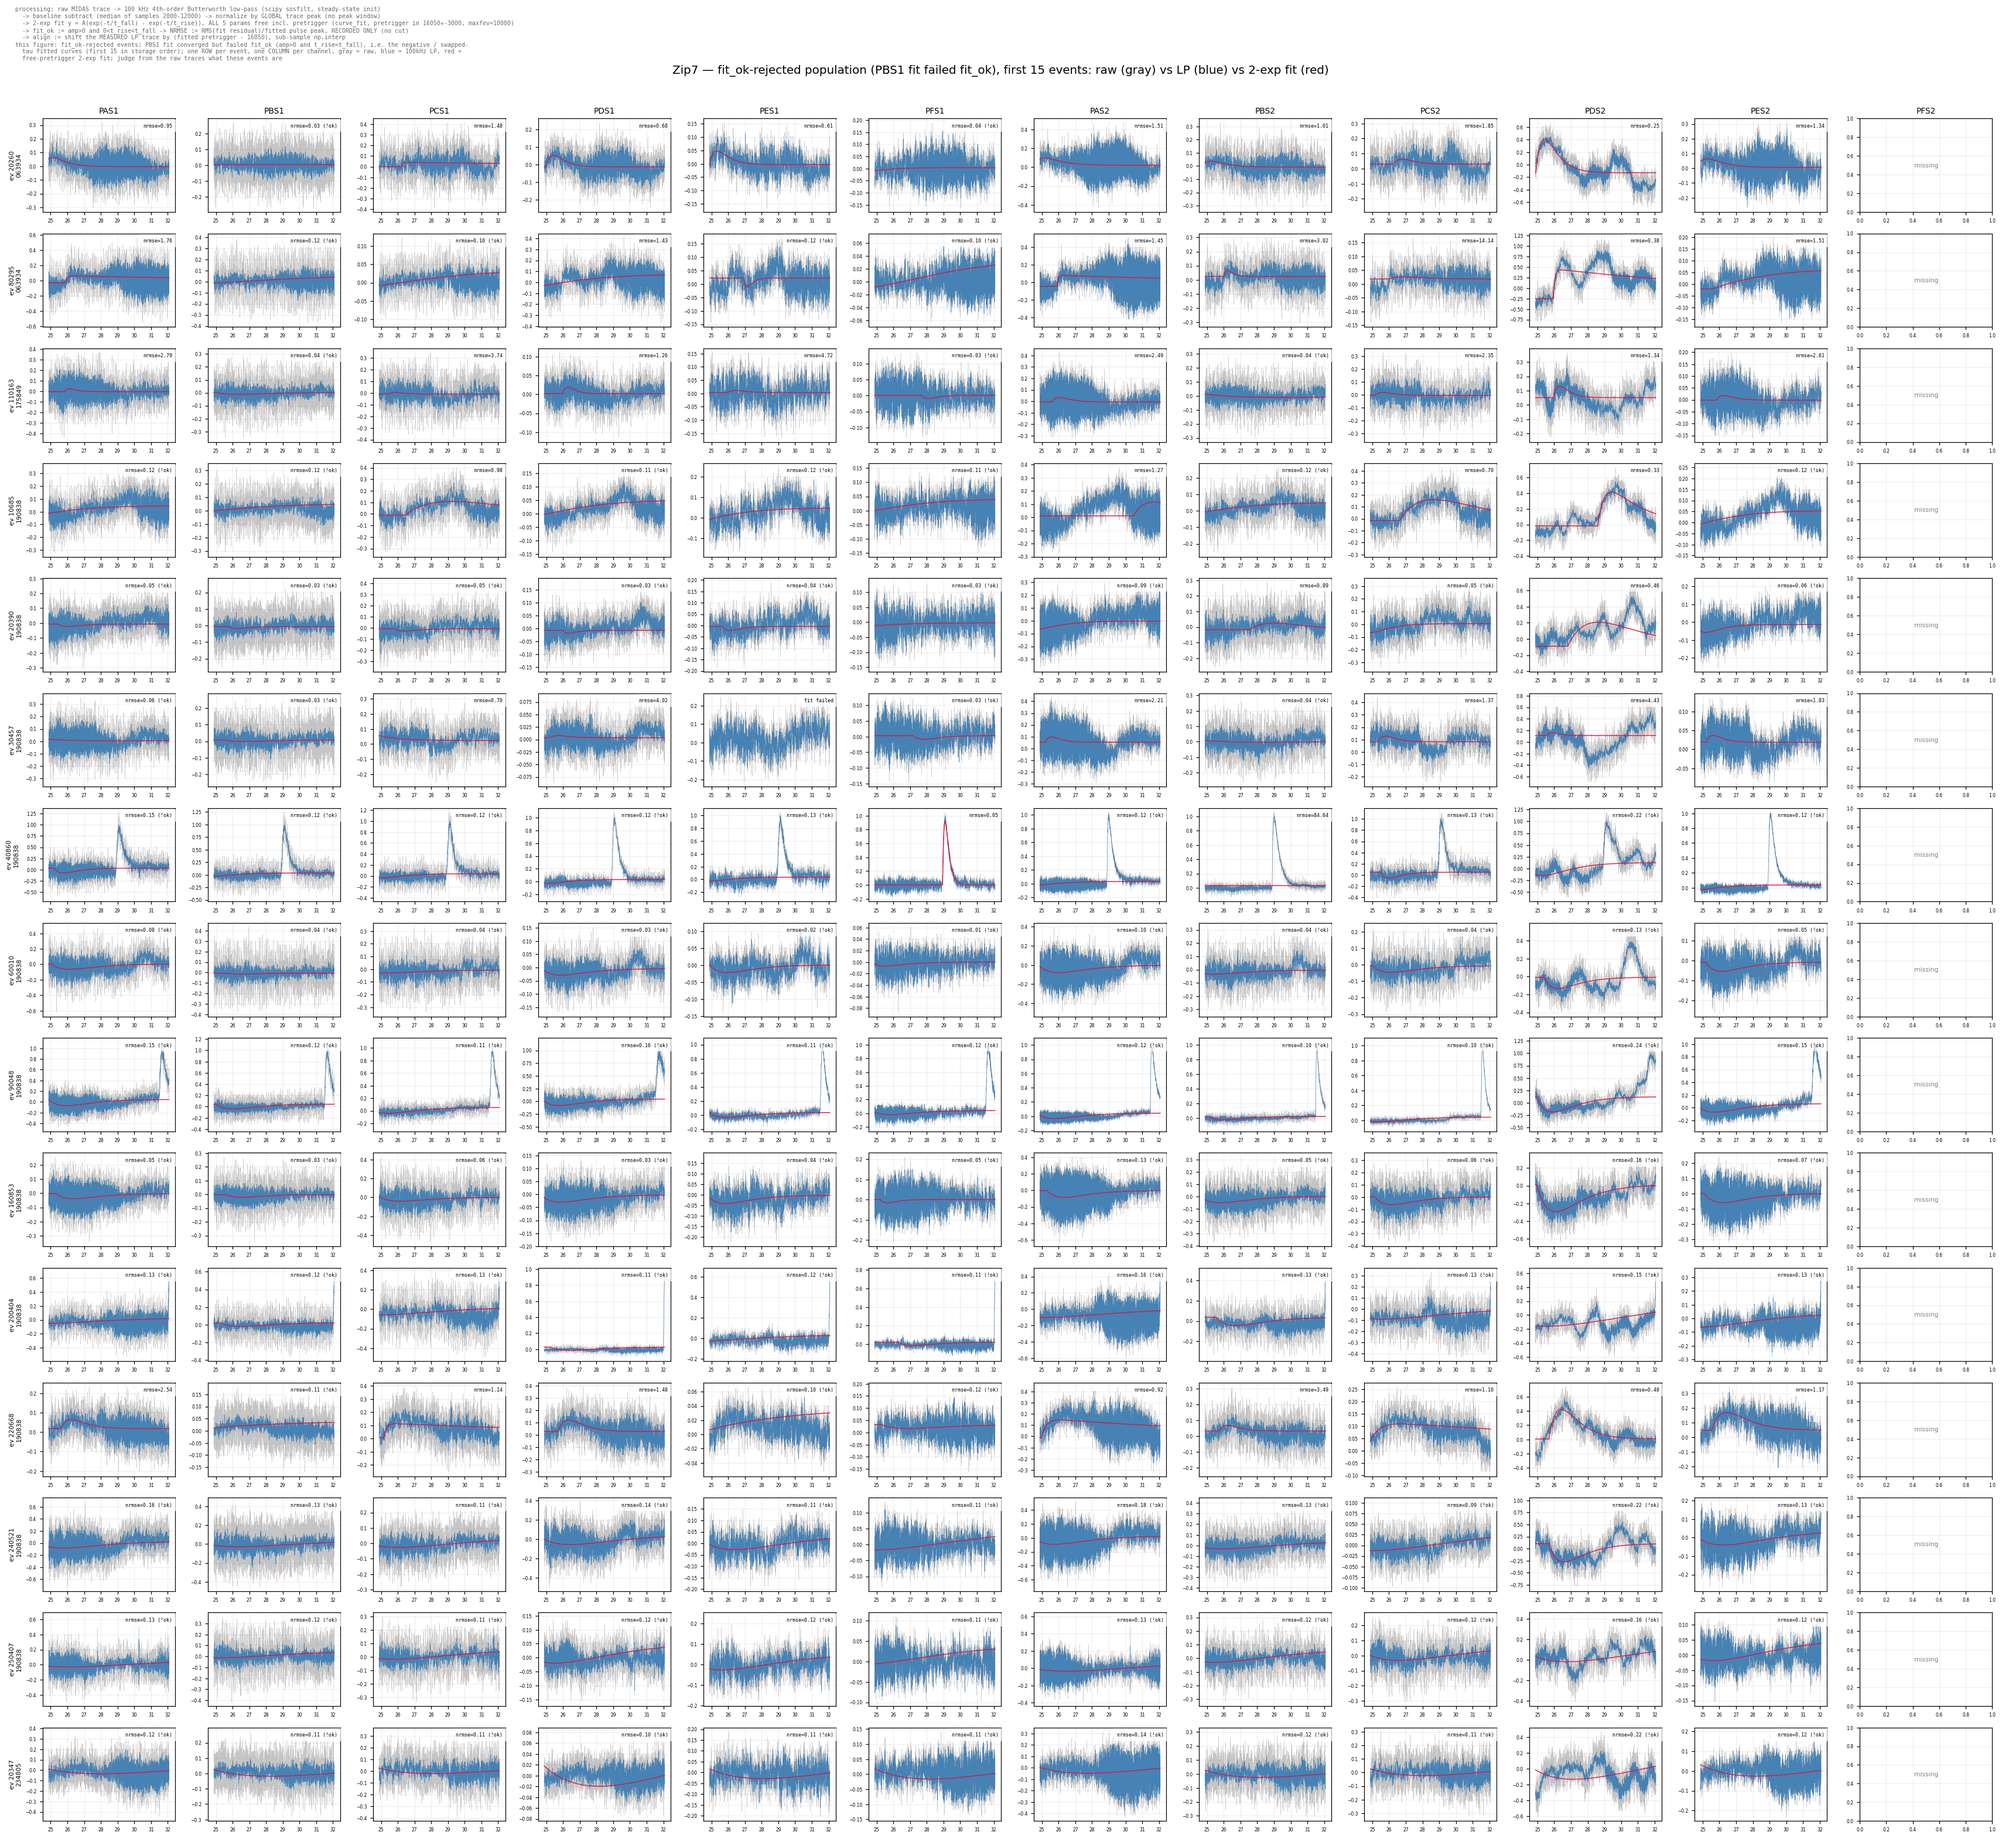
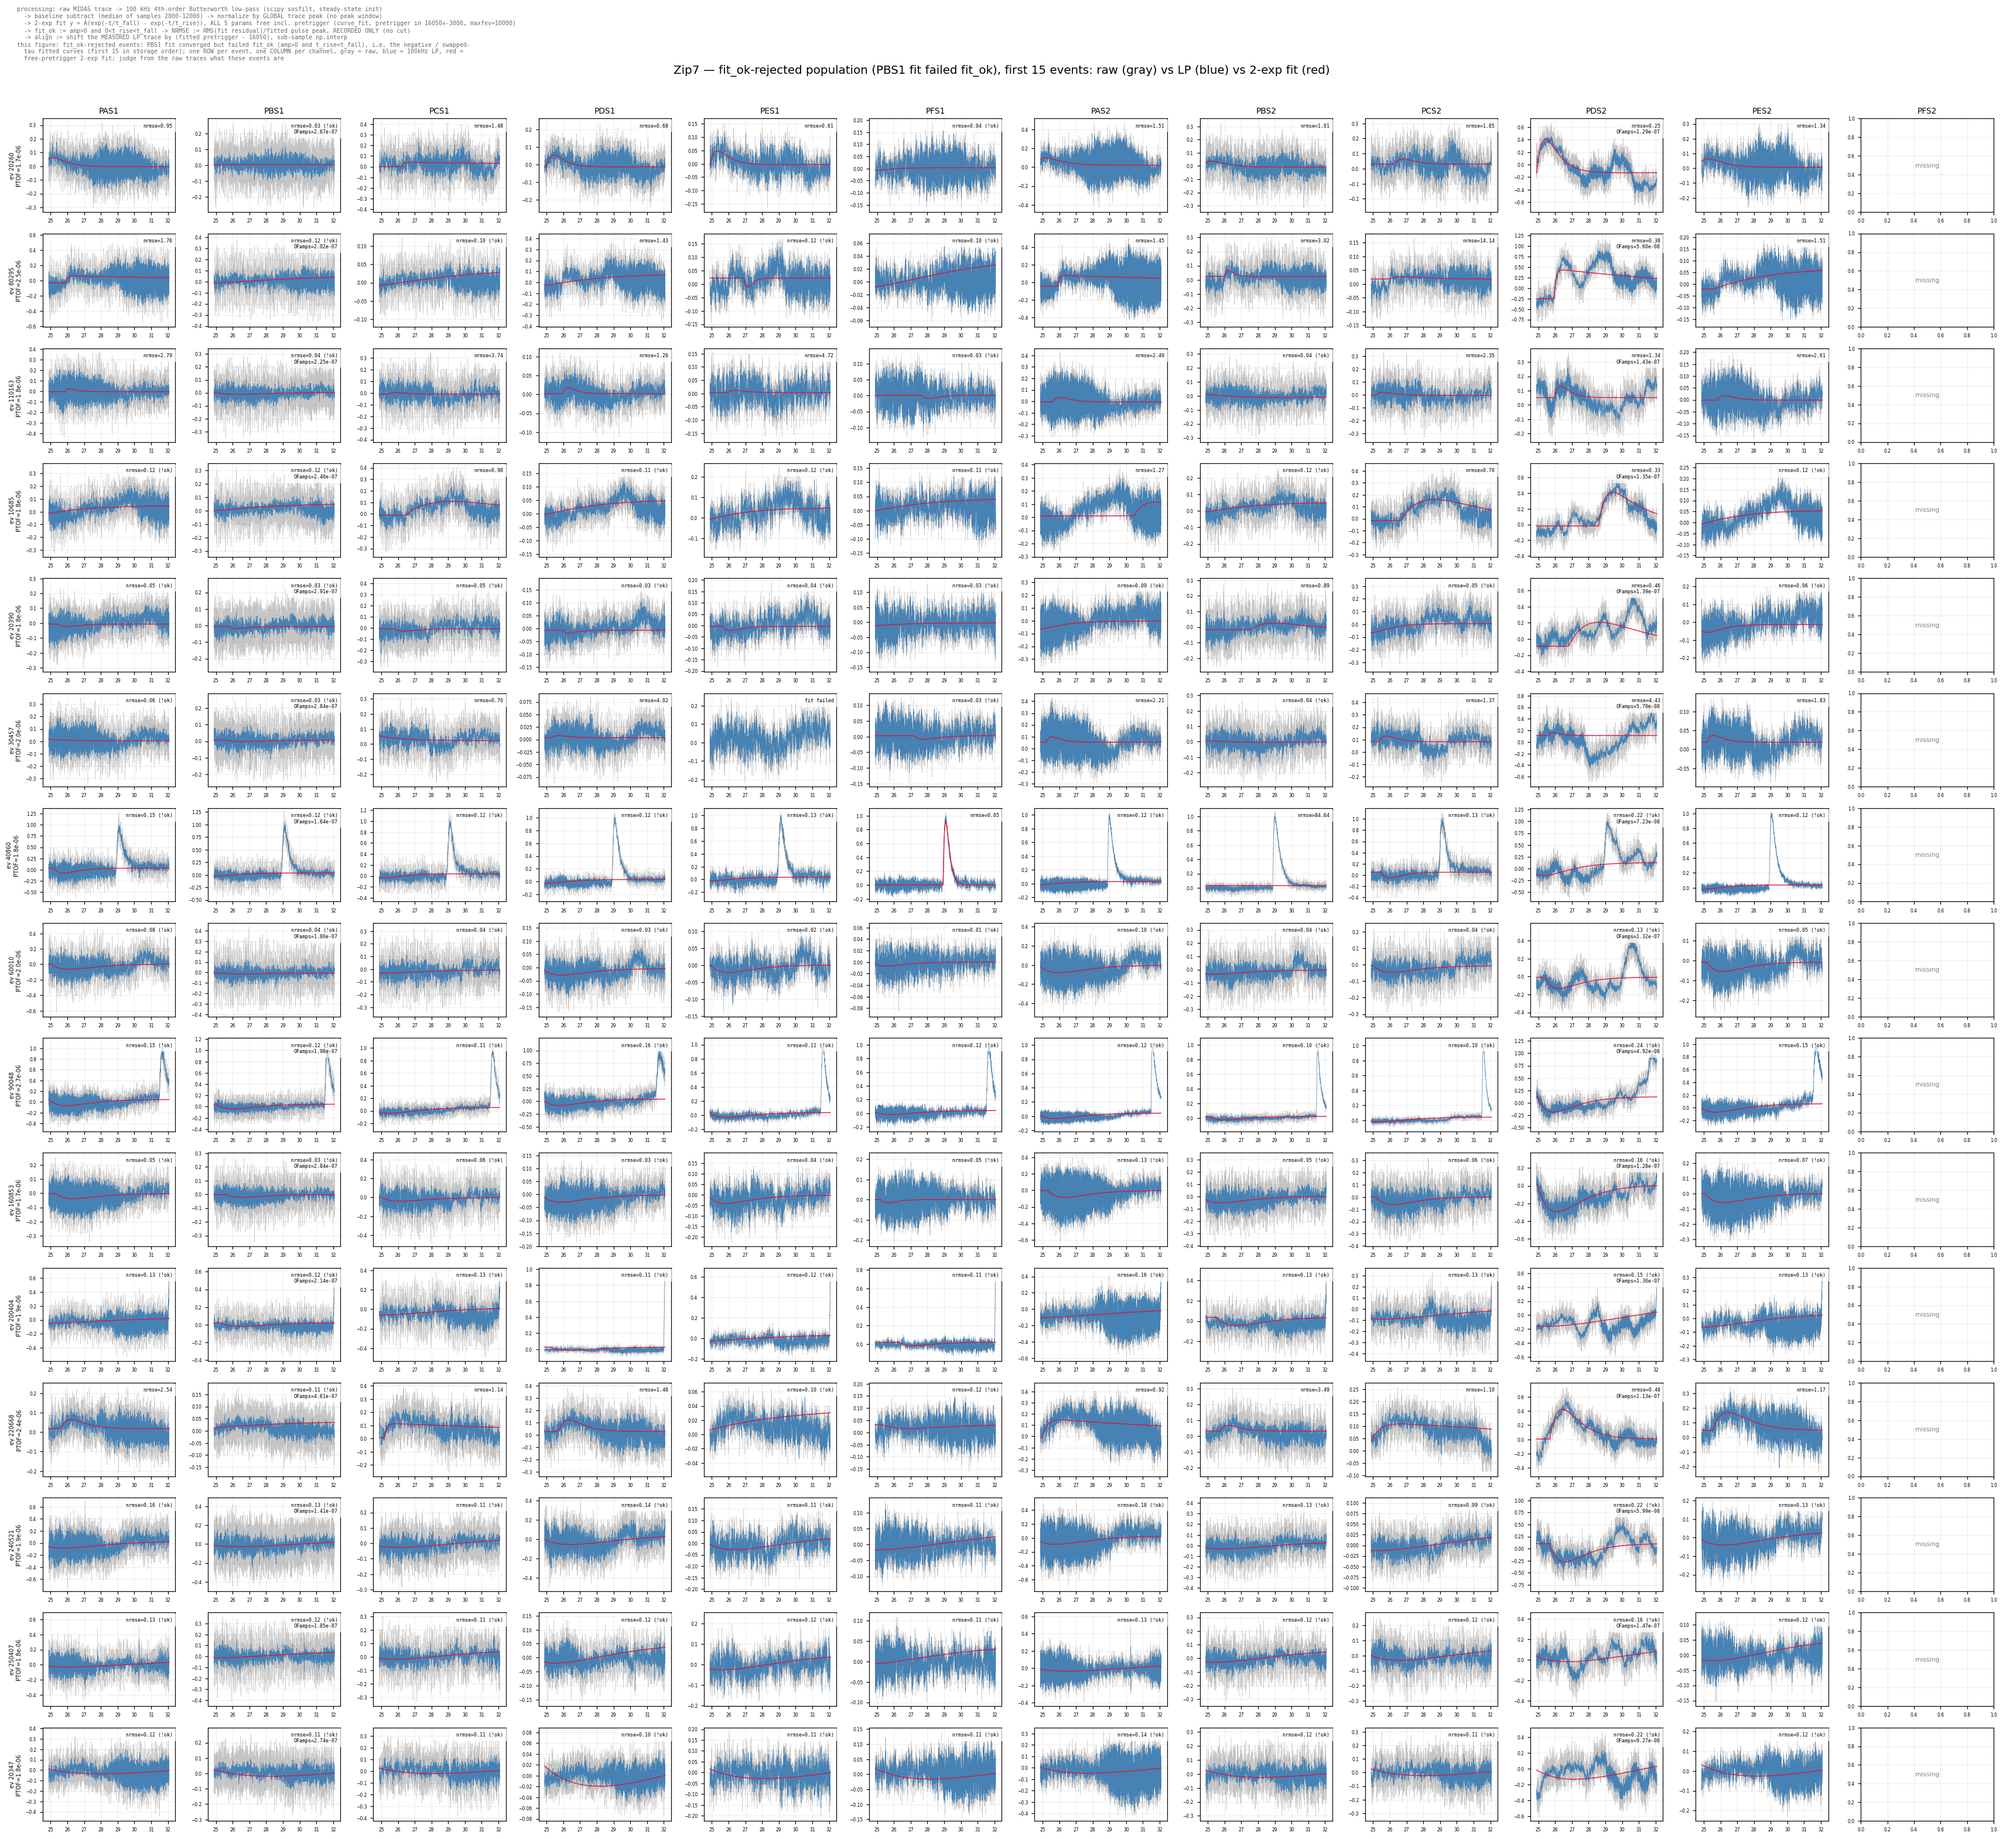
snolab: fitok_rejected grid — row labels show the event PTOFamps; PBS1/PDS2 panels show that channel's OFamps read from the official Prompt processed files (the cache only replicates the total PTOFamps per channel)

diff --git a/snolab/lp_fit_align/scripts/plot_fitok_rejected_grid.py b/snolab/lp_fit_align/scripts/plot_fitok_rejected_grid.py
@@ -9,6 +9,10 @@ COLUMN per channel, each panel raw (gray) + 100 kHz LP (blue) + 2-exp fit
 (red) with its NRMSE, so one can judge from the RAW traces what these events
 actually are (expected: pulse-free traces with a downward baseline drift).
 
+Each row is labeled with the event's PTOFamps (from the cache); the PBS1 and
+PDS2 panels additionally show that channel's OFamps, read back from the
+official Prompt processed file of the series.
+
 Output: results/plots/fitok_rejected_events/zip{N}_fitok_rejected_events.png
 
 Usage:
@@ -21,6 +25,7 @@ import pickle
 import sys
 
 import numpy as np
+import uproot
 import matplotlib
 matplotlib.use("Agg")
 import matplotlib.pyplot as plt
@@ -31,6 +36,10 @@ from lp_fit_align import (add_pipeline_note, plot_path,
                           CACHE_DIR_DEFAULT, CKPT_DIR, RISE_REF_IDX,
                           SAMPLERATE, TRACELENGTH, X_FULL, lowpass,
                           two_exp_free_pt)
+
+PROCESSED_DIR = ("/projects/standard/yanliusp/shared/data/CDMS/SNOLAB/R4"
+                 "/Processed/Prompt/Prompt_V07-02_C0.4.5/Submerged")
+AMP_CHANS = ("PBS1", "PDS2")
 
 parser = argparse.ArgumentParser()
 parser.add_argument("--det", type=int, required=True)
@@ -59,6 +68,17 @@ for series in series_list:
     with open(raw_path, "rb") as fh:
         payload = pickle.load(fh)
 
+    # per-channel OF amplitudes from the official Prompt processed file
+    proc = os.path.join(PROCESSED_DIR,
+                        f"Prompt_V07-02_C0.4.5_{series}.root")
+    ofamp_by_event = {c: {} for c in AMP_CHANS}
+    if os.path.exists(proc):
+        with uproot.open(proc) as h:
+            evs = h["rqDir/eventTree/EventNumber"].array(library="np").astype(int)
+            for c in AMP_CHANS:
+                vals = h[f"rqDir/zip{det}/{c}OFamps"].array(library="np")
+                ofamp_by_event[c] = dict(zip(evs.tolist(), vals.tolist()))
+
     idx_by_chan = {c: {int(e): i for i, e in
                        enumerate(payload["event_numbers_ch"].get(c, []))}
                    for c in ALL_CHANS}
@@ -72,7 +92,9 @@ for series in series_list:
         fp_sel = fits[SEL][i]
         if fp_sel is None or fp_sel["fit_ok"]:
             continue
-        # qualified: collect traces for all channels
+        # qualified: collect traces + per-channel OF amplitudes
+        ptof = payload.get("selected_ptofamps", {}).get(evn)
+        ofamp = {c: ofamp_by_event[c].get(evn) for c in AMP_CHANS}
         per_chan = {}
         for c in ALL_CHANS:
             i = idx_by_chan[c].get(evn)
@@ -89,7 +111,7 @@ for series in series_list:
             fp = fits[c][i] if i < len(fits.get(c) or []) else None
             per_chan[c] = ((tr - baseline) / peak, (y_lp - baseline) / peak, fp)
         if per_chan:
-            events.append((evn, series, per_chan))
+            events.append((evn, series, ptof, ofamp, per_chan))
     del payload
 
 if not events:
@@ -104,7 +126,14 @@ fig, axes = plt.subplots(nrows, ncols, figsize=(2.6 * ncols, 1.9 * nrows),
 fig.suptitle(f"Zip{det} — fit_ok-rejected population ({SEL} fit failed "
              f"fit_ok), first {len(events)} events: "
              "raw (gray) vs LP (blue) vs 2-exp fit (red)", fontsize=13)
-for row, (evn, series, per_chan) in enumerate(events):
+print(f"{'event':>8} {'PTOFamps':>12} {'PBS1OFamps':>12} {'PDS2OFamps':>12}")
+for evn, series, ptof, ofamp, _ in events:
+    def _f(v):
+        return f"{v:.3e}" if v is not None else "n/a"
+    print(f"{evn:>8} {_f(ptof):>12} {_f(ofamp.get('PBS1')):>12} "
+          f"{_f(ofamp.get('PDS2')):>12}")
+
+for row, (evn, series, ptof, ofamp, per_chan) in enumerate(events):
     for col, c in enumerate(ALL_CHANS):
         ax = axes[row, col]
         ax.tick_params(labelsize=5)
@@ -112,7 +141,8 @@ for row, (evn, series, per_chan) in enumerate(events):
         if row == 0:
             ax.set_title(c, fontsize=9)
         if col == 0:
-            ax.set_ylabel(f"ev {evn}\n{series[-6:]}", fontsize=7)
+            ptxt = f"{ptof:.1e}" if ptof is not None else "n/a"
+            ax.set_ylabel(f"ev {evn}\nPTOF={ptxt}", fontsize=6.5)
         if c not in per_chan:
             ax.text(0.5, 0.5, "missing", transform=ax.transAxes,
                     ha="center", va="center", fontsize=7, color="gray")
@@ -127,6 +157,8 @@ for row, (evn, series, per_chan) in enumerate(events):
             tag = f"nrmse={fp['nrmse']:.2f}" + ("" if fp["fit_ok"] else " (!ok)")
         else:
             tag = "fit failed"
+        if c in AMP_CHANS and ofamp.get(c) is not None:
+            tag += f"\nOFamps={ofamp[c]:.2e}"
         ax.text(0.98, 0.95, tag, transform=ax.transAxes, ha="right", va="top",
                 fontsize=5.5, family="monospace",
                 bbox=dict(facecolor="white", alpha=0.7, edgecolor="none"))
